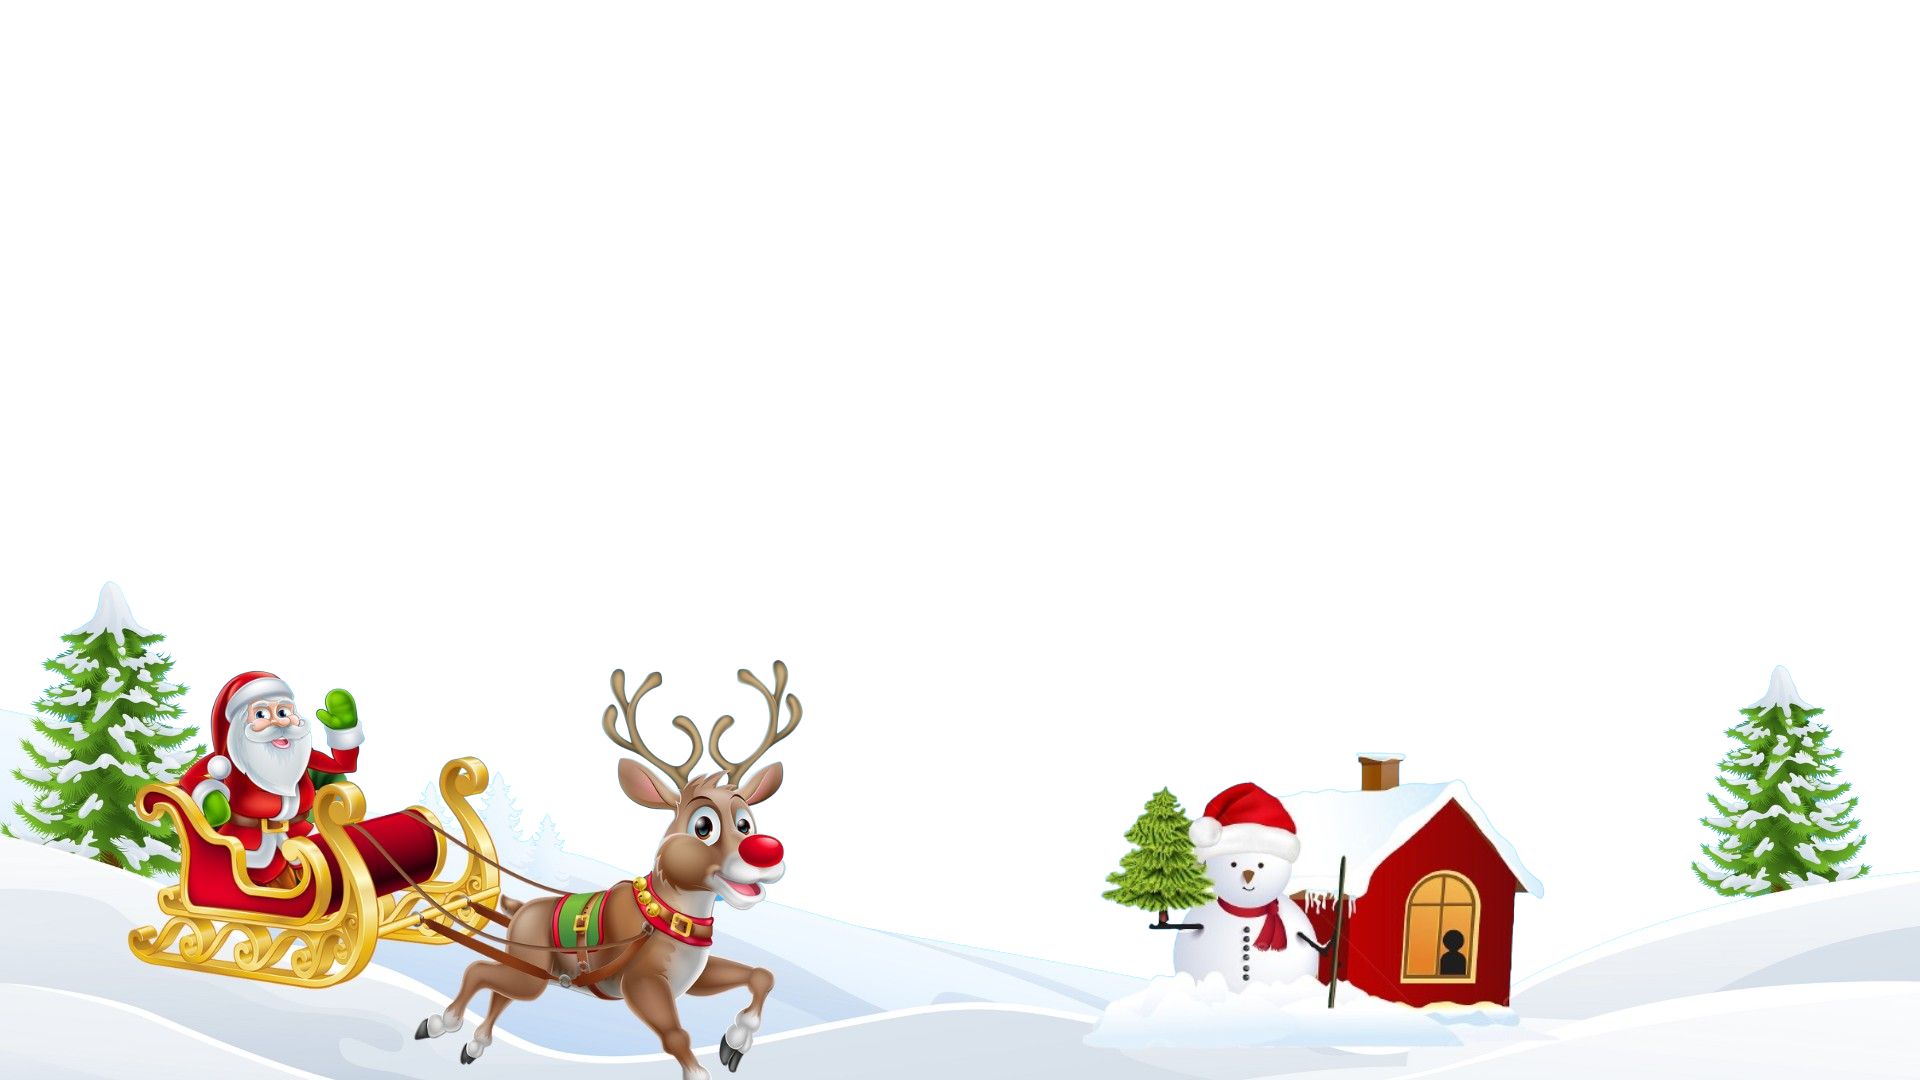
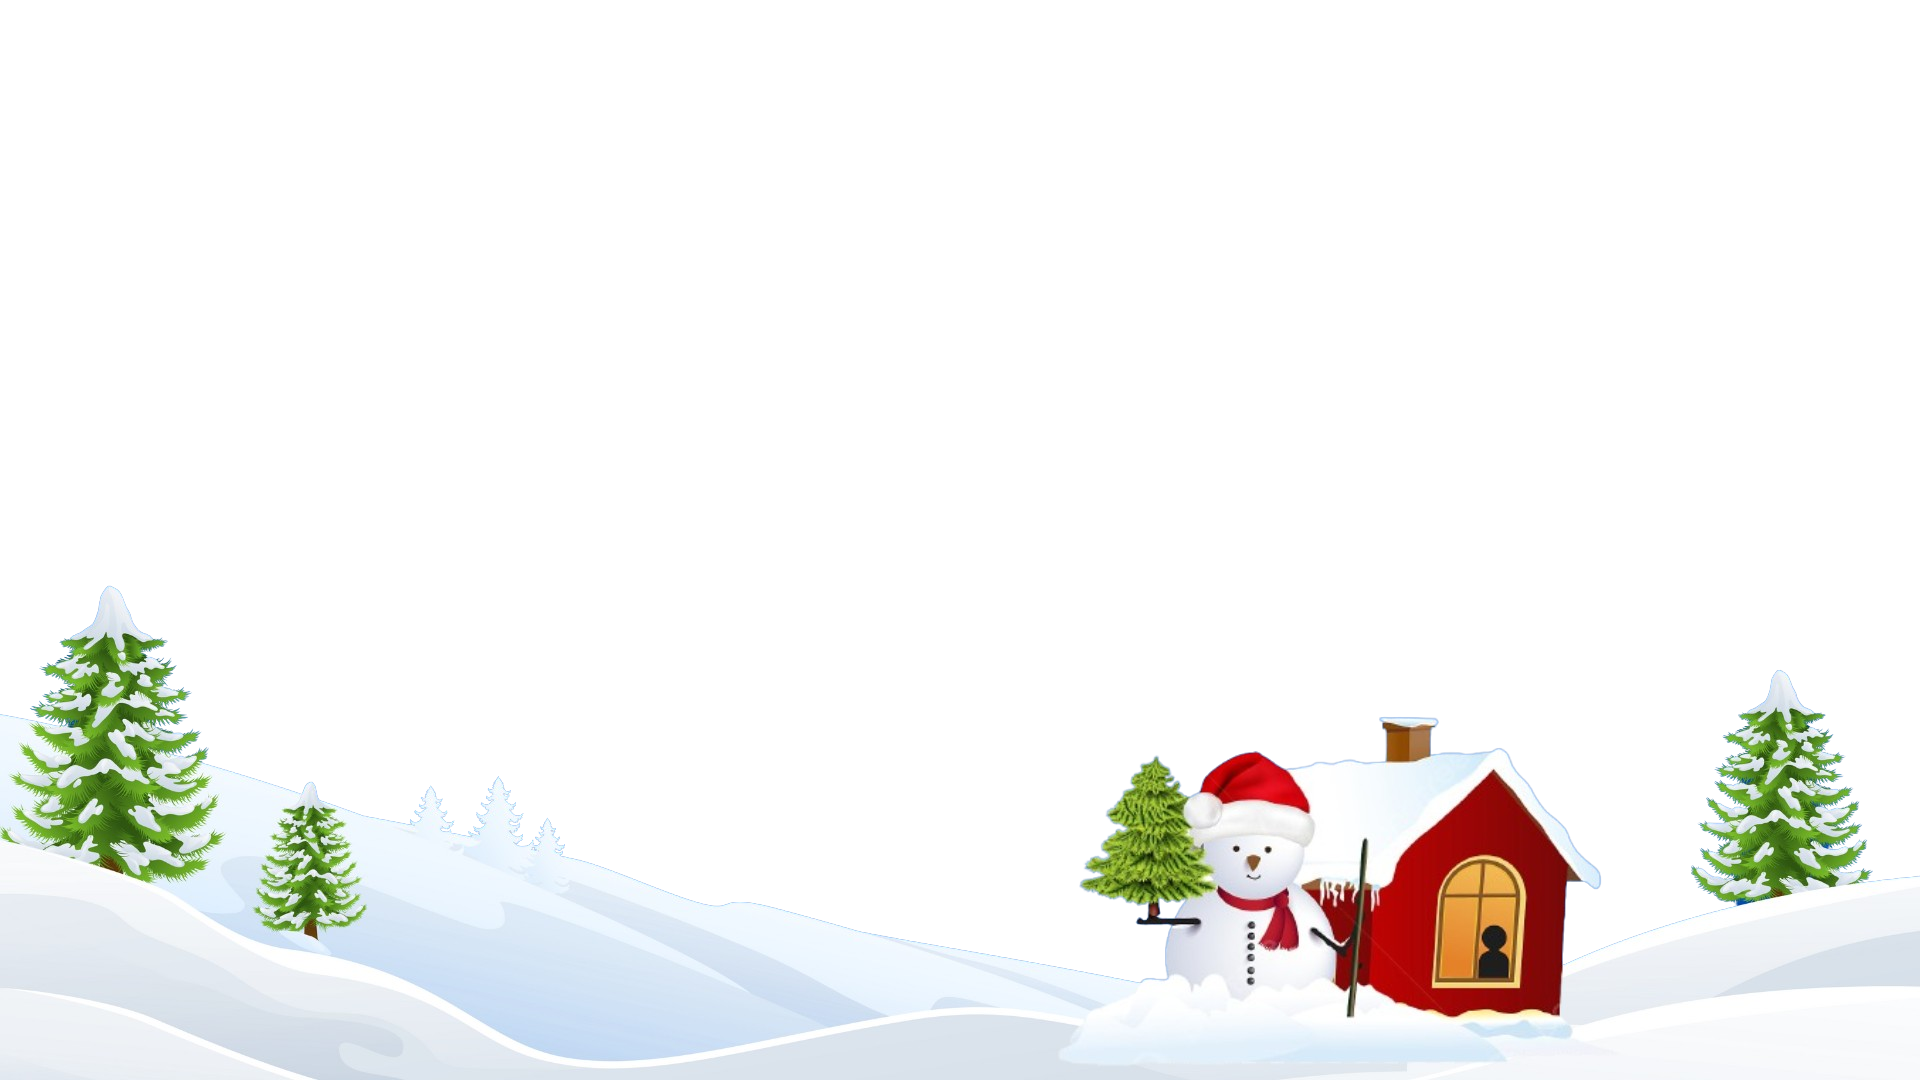
แก้ไขอนิเมชั่น

diff --git a/index.html b/index.html
@@ -49,7 +49,12 @@
 
   <!-- องค์ประกอบภาพ -->
   <div>
-    <img src="img/bg.png" alt="Snow" class="absolute bottom-0 left-0 w-full z-0">
+    <!-- Santa -->
+    <img src="img/kwang.png" alt="Santa"
+      class="absolute bottom-0 left-6 w-[600px] drop-shadow-lg z-10 santa-move slide-in-left">
+
+    <!-- Mountain -->
+    <img src="img/bg.png" alt="Mountain" class="absolute bottom-0 left-0 w-full  z-0">
   </div>
 
 
